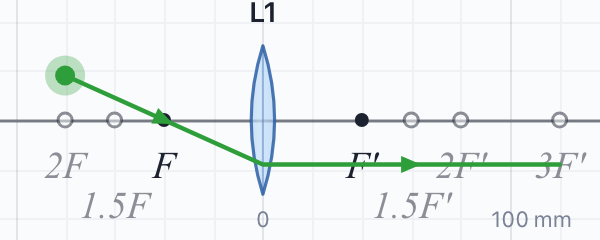
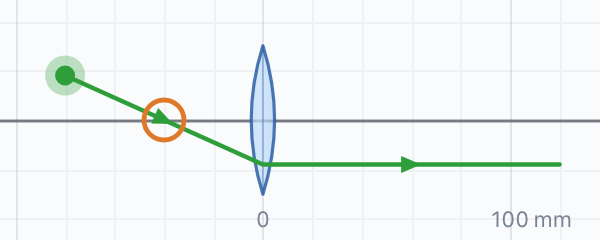
Help pictures: no F marks, a snap ring, wider lens picture; title back; Toolbars removed
- Help pictures drawn bare (no F, F′, nF or L1); the snap picture shows its ring at F.
- Lens picture wider and shorter so the content fills it.
- "How to use RayMan" title restored, close button on its line; Toolbars section removed.
- Renderer option `bare` (js/render.js); scenes set it with GUIDE.bare. Tests and log updated.

diff --git a/Claude/guide-shots/scenes.js b/Claude/guide-shots/scenes.js
@@ -24,6 +24,18 @@
     r.nodes.push({ dir: { kind: 'refract', el: L.id }, end: z == null ? { kind: 'next' } : { kind: 'z', z: z } });
   }
   var GREEN = '#2e9e3a', PURPLE = '#8e44ad';
+  /** For the help pictures: draw with no F, F′ or nF marks, and with snap rings at the given
+      points ({z, y}). The renderer's bare option does the first; the rings are the hints. */
+  function bare(rings) {
+    var draw0 = RM.render.draw;
+    RM.render.draw = function (c, W, H, st) {
+      var o = {}; Object.keys(st).forEach(function (k) { o[k] = st[k]; });
+      o.bare = true;
+      if (rings) o.hints = rings;
+      return draw0(c, W, H, o);
+    };
+    RM.app.redraw();
+  }
 
   // ---------------------------------------------------------------- helper rays
   /* The helper-ray trick, as in step 1 of the confocal-from-zero demo: a source just inside F of
@@ -140,10 +152,11 @@
       R.extendToImages(view(), 1);
     },
     // ---------------------------------------------------------------- pictures for the help pane (images/help/)
+    bare: bare,
     /* One lens, an object 75% of the lens's height, and its image: the rays from the tip, one
        parallel to the axis (bent through F') and one through the centre, cross at the image. */
     helpLens: function () {
-      var L = lens(0, 50, 30);
+      var L = lens(0, 50, 30); L.label = '';
       var O = on(S.addObject(real, -100, 22.5)); O.axis = ax;
       var a = ray({ at: { el: O.id, pt: 'tip' } }); draw(a, { z: 0, y: 22.5 }); bent(a, L, 130);
       var b = ray({ at: { el: O.id, pt: 'tip' } }); draw(b, { z: 0, y: 0.2 }); draw(b, { z: 130, y: -29.25 });
@@ -151,7 +164,7 @@
     },
     // A ray snapped through F (it then leaves parallel to the axis): the snap the help pane describes.
     helpSnap: function () {
-      var L = lens(0, 40, 30);
+      var L = lens(0, 40, 30); L.label = '';
       var P = point(-80, 18, GREEN);
       var r = ray({ at: { el: P.id, pt: 'src' } });
       r.nodes.push({ dir: { kind: 'through', at: { el: L.id, pt: 'F' } }, end: { kind: 'lens', el: L.id } });
@@ -159,7 +172,7 @@
     },
     // Two rays end at the same point of a lens; the blue one is the one continued (in the current colour).
     helpContinue: function () {
-      var L = lens(0, 50, 30);
+      var L = lens(0, 50, 30); L.label = '';
       var P1 = point(-80, 0, '#1f6fd6'), P2 = point(-80, 24, '#d9422b');
       var blue = ray({ at: { el: P1.id, pt: 'src' } }); blue.color = '#1f6fd6';
       var red = ray({ at: { el: P2.id, pt: 'src' } }); red.color = '#d9422b';

diff --git a/index.html b/index.html
@@ -109,7 +109,7 @@
   </section>
 
   <section id="help" class="panel" hidden>
-    <div class="ph"><button class="close" data-act="help" title="Close">&times;</button></div>
+    <div class="ph"><h2>How to use RayMan</h2><button class="close" data-act="help" title="Close">&times;</button></div>
     <h3>Drawing rays</h3>
     <p>Click to start, on the object tip, a point source, F, F′ or anywhere. Move, then click to
       place the segment; it stops at the next lens. It snaps <b>parallel to the axis</b> (the axis
@@ -130,7 +130,7 @@
       cross, and the rays stop there. If they spread apart instead, a <b>virtual image</b> appears where their backward
       extensions meet (must be enabled in Settings). An image is an object for the next lens: start new rays from its
       tip. <span class="desk-only">Or <b>Shift-click the image</b> to carry a ray that ends there on through it.</span></p>
-    <figure class="help-pic"><img src="images/help/lens.png" alt="One lens: an object three quarters the height of the lens, its image, and the rays from its tip" loading="lazy"></figure>
+    <figure class="help-pic wide"><img src="images/help/lens.png" alt="One lens: an object three quarters the height of the lens, its image, and the rays from its tip" loading="lazy"></figure>
     <h3>Hints</h3>
     <p>The lightbulb (<kbd>G</kbd>) shows the three rules at the top of the screen and colours
       the rays you draw by the rule they follow: <b>parallel</b> blue, <b>focal</b> red,
@@ -171,9 +171,6 @@
       <dt><kbd>F</kbd></dt><dd>Fit everything in view</dd>
       <dt><kbd>Space</kbd></dt><dd>Hold and drag to pan; scroll to zoom</dd>
     </dl>
-    <h3>Toolbars</h3>
-    <p>Things to place are on the left, actions on the right. In Settings the toolbars can hide
-      themselves: move the mouse to the left or right edge to bring them back.</p>
     <p class="dim">The bench is kept in this browser between visits. Save to a file to keep it safe.</p>
     <p class="guide-link"><a href="guide/index.html">Full guide →</a><br>
       <span class="dim">Helper rays, a negative lens, light from infinity, rays through an image, irises and fill-in rays, sharing and embedding.</span></p>

diff --git a/js/render.js b/js/render.js
@@ -706,7 +706,7 @@
 
   /** Draw one frame. st: { real (the whole scene), view, theme, tool, sel, hover, axis (the one
       being worked on: ghost, draft, hints and highlights belong to it), ghost, hints, hotFocal,
-      axisHot, draft, caption }. Each optical axis is drawn from its own view, shifted to its
+      axisHot, draft, caption, bare (no F, F′ or 1.5F…3F marks: for the help pictures) }. Each optical axis is drawn from its own view, shifted to its
       height. A scene with no axes (as in old files and the tests) is one implicit axis at 0. */
   function draw(c, W, H, st) {
     var th = THEMES[st.theme] || THEMES.light, real = st.real || st.scene;
@@ -751,11 +751,11 @@
     els.forEach(function (e) { if (e.type === 'iris') iris(c, v, th, e, opts(e)); });
     els.forEach(function (e) { if (e.type === 'plane') imagePlane(c, v, th, e, opts(e)); });
     els.forEach(function (e) { if (e.type === 'dichroic') dichroic(c, v, th, e, opts(e)); });
-    var fBoxes = focalMarkers(c, v, th, els, nL, st.hotFocal || {});
+    var fBoxes = st.bare ? [] : focalMarkers(c, v, th, els, nL, st.hotFocal || {});   // bare: no F or nF marks (help pictures)
     // 1.5F, 2F and 3F: always shown when the axis has a single lens, else while a lens is hovered
     var ml = nL === 1 ? els.filter(function (e) { return e.type === 'lens'; })[0]
       : st.lensMarks && els.filter(function (e) { return e.id === st.lensMarks && e.type === 'lens'; })[0];
-    if (ml) lensMultiples(c, v, th, ml, nL, nL === 1 || st.marksFade == null ? 1 : st.marksFade, fBoxes);
+    if (ml && !st.bare) lensMultiples(c, v, th, ml, nL, nL === 1 || st.marksFade == null ? 1 : st.marksFade, fBoxes);
     els.forEach(function (e) { if (e.type === 'object') objectArrow(c, v, th, e, opts(e)); });
     els.forEach(function (e) { if (e.type === 'filament') filament(c, v, th, e, opts(e)); });
     els.forEach(function (e) { if (e.type === 'beam') beam(c, v, th, e, opts(e)); });

diff --git a/tests/help.test.js b/tests/help.test.js
@@ -9,10 +9,15 @@ const html = fs.readFileSync(path.join(ROOT, 'index.html'), 'utf8');
 const help = html.slice(html.indexOf('id="help"'), html.indexOf('id="about"'));
 
 test('the help pane has no long-winded asides it used to carry', () => {
-  ['How to use RayMan', '(dashed)', 'Virtual images are hidden', 'with pictures', 'Put a lens', 'can only be continued straight on',
+  ['(dashed)', 'Virtual images are hidden', 'with pictures', 'Put a lens', 'can only be continued straight on',
     'as light does', 'magnification <b>M</b>'].forEach(s => assert.ok(!help.includes(s), 'still has: ' + s));
   assert.ok(help.includes('(must be enabled in Settings)'));
   assert.ok(help.includes('Full guide'));
+  assert.ok(!help.includes('Toolbars'), 'the Toolbars section is removed');
+});
+
+test('the help pane keeps its title, with the close button on the same line', () => {
+  assert.ok(help.includes('<div class="ph"><h2>How to use RayMan</h2><button class="close" data-act="help"'));
 });
 
 test('Tools come before Keys, so every button is in one place', () => {

diff --git a/css/style.css b/css/style.css
@@ -362,6 +362,7 @@ kbd {
 /* small pictures in the help pane: a sentence's illustration, kept small so the text stays the point */
 #help .help-pic { margin: 4px 0 12px; }
 #help .help-pic img { display: block; width: 260px; max-width: 100%; height: auto; border-radius: 8px; border: 1px solid var(--line); background: #fafbfc; }
+#help .help-pic.wide img { width: 100%; }
 
 #help .about-link { margin: 14px 0 0; padding-top: 12px; border-top: 1px solid var(--line); }
 #help .about-link button { color: var(--accent-ink); font-weight: 600; font-size: 13px; }

diff --git a/Claude/guide-shots/shots.py b/Claude/guide-shots/shots.py
@@ -22,9 +22,9 @@ SHOTS = [
     ("throughB", "through-2", {"h": 300, "after": "RM.app.view.fit({z0: -95, z1: 255, y0: -36, y1: 30}, 860, 300, 16); RM.app.redraw()"}),
     ("bundle", "bundle"),
     # pictures for the help pane (images/help/), small: width x height in CSS px
-    ("helpLens", "lens", {"w": 300, "h": 170, "dir": HELP, "after": "RM.app.view.fit({z0: -115, z1: 175, y0: -34, y1: 34}, 300, 170, 14); RM.app.redraw()"}),
-    ("helpSnap", "snap", {"w": 300, "h": 120, "dir": HELP, "after": "RM.app.view.fit({z0: -95, z1: 125, y0: -26, y1: 26}, 300, 120, 14); RM.app.redraw()"}),
-    ("helpContinue", "continue", {"w": 300, "h": 150, "dir": HELP, "after": "RM.app.view.fit({z0: -95, z1: 125, y0: -26, y1: 32}, 300, 150, 14); RM.app.redraw()"}),
+    ("helpLens", "lens", {"w": 380, "h": 130, "dir": HELP, "after": "RM.app.view.fit({z0: -112, z1: 140, y0: -34, y1: 34}, 380, 130, 14); GUIDE.bare(null)"}),
+    ("helpSnap", "snap", {"w": 300, "h": 120, "dir": HELP, "after": "RM.app.view.fit({z0: -95, z1: 125, y0: -26, y1: 26}, 300, 120, 14); GUIDE.bare([{z: -40, y: 0}])"}),
+    ("helpContinue", "continue", {"w": 300, "h": 150, "dir": HELP, "after": "RM.app.view.fit({z0: -95, z1: 125, y0: -26, y1: 32}, 300, 150, 14); GUIDE.bare(null)"}),
     ("iris", "iris-open"), ("irisClosed", "iris-closed"),
     # ("objects", "explorer", {"ui": True, "w": 1100, "h": 520, "after": "document.querySelector('[data-act=objects]').click()"}),   # dev feature for now (#4)
 ]

diff --git a/Claude/LOG.md b/Claude/LOG.md
@@ -1678,3 +1678,16 @@ view, so a ray aimed through (or parallel to) one that was off could not be plac
   example page say that you can pan and zoom.
 - Tests: `tests/embed-zoom.test.js` (source checks). Checked by mouse in headless Chrome on the
   example page: + zooms in, 0 resets, a drag pans, the wheel zooms, ✕ closes, no errors.
+
+## 2026-11-17: help pictures and help pane, round two (after #6)
+
+- The help pictures are drawn bare: no F, F′, 1.5F…3F marks and no L1 name. The renderer has a
+  `bare` option (`st.bare` in `js/render.js`, not used by the app itself); the scenes set it with
+  `GUIDE.bare(rings)`, which can also add snap rings.
+- The snap picture now shows its snap: a ring at F, where the ray is snapped through.
+- The lens picture is wider and shorter (380 px, 130 px high), so the lens and object fill it.
+- "How to use RayMan" is back as the panel title (same style), with the close button on the same
+  line at the right. Its intro sentence stays removed.
+- The Toolbars section is removed. The line "The bench is kept in this browser…" stays, under Hints
+  and the rest.
+- Tests: `tests/help.test.js` updated (title present, no Toolbars).
